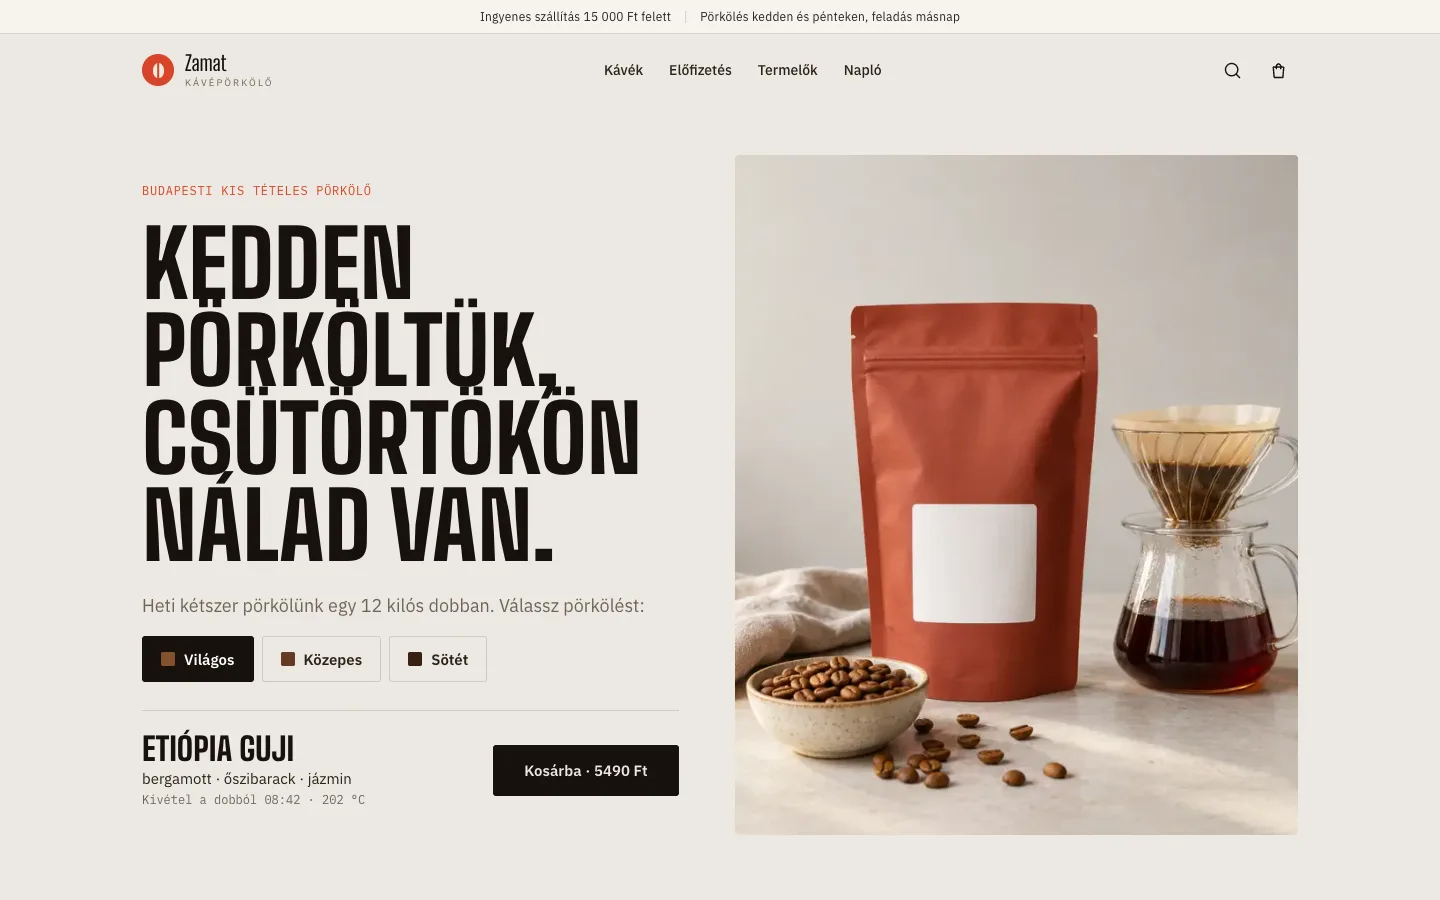
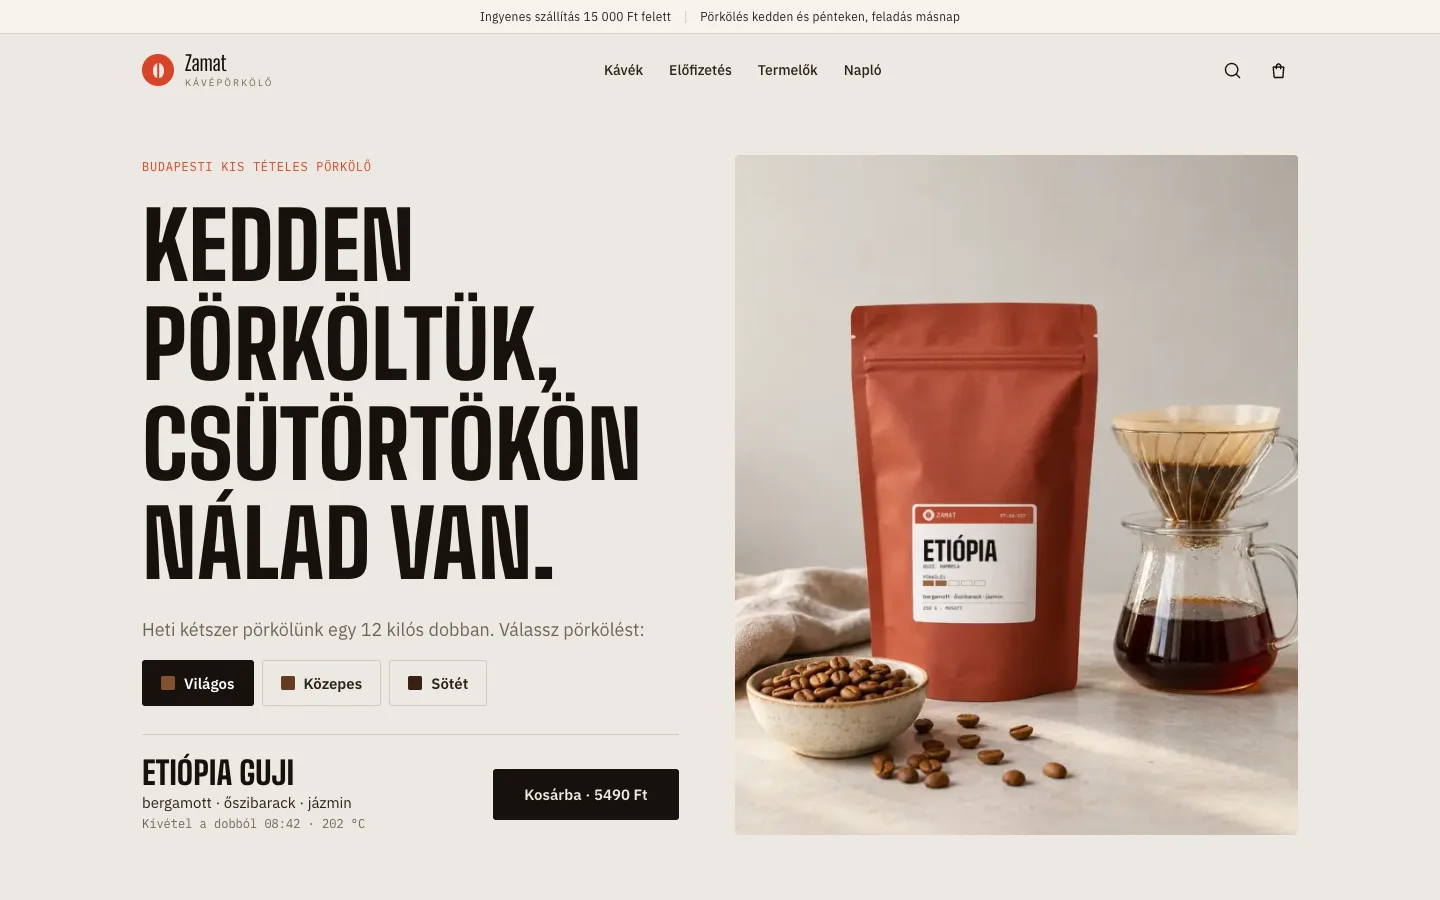
fix(demo): Zamat — logós címke a zacskókon, nem csúszó cím
A generált termékfotók üres fehér címkéjére rákerült a Zamat-címke (jel,
kávé, származás, pörkölési fok, kiszerelés), szorzó keveréssel. A nagy
cím sorköze 1,08 lett, mert az ékezetek belelógtak a fölötte lévő sorba.
A képek új néven, hogy a képoptimalizáló régi példánya ne jöjjön vissza.

Changed region(s): [[0.0938, 0.1556, 0.4375, 0.9333], [0.3438, 0.8089, 0.4688, 0.9333], [0.625, 0.56, 0.7188, 0.6844]]

diff --git a/app/demo/zamat/ZamatHero.tsx b/app/demo/zamat/ZamatHero.tsx
@@ -19,9 +19,9 @@ import { beanColor, beanTemp, formatMinute, formatTemp, toHex } from "./roast";
  */
 
 const PICKS = [
-  { label: "Világos", slug: "etiopia-guji", photo: "/demo/zamat/hero-vilagos.webp", alt: "Terrakotta kávészacskó, világos pörkölésű szemek és filteres kávéfőző" },
-  { label: "Közepes", slug: "kolumbia-huila", photo: "/demo/zamat/hero-kozepes.webp", alt: "Okkersárga kávészacskó, közepes pörkölésű szemek fakanálban, kézi daráló" },
-  { label: "Sötét", slug: "brazil-cerrado", photo: "/demo/zamat/hero-sotet.webp", alt: "Sötétbarna kávészacskó, sötét pörkölésű szemek és egy csésze espresso" }
+  { label: "Világos", slug: "etiopia-guji", photo: "/demo/zamat/zacsko-vilagos.webp", alt: "Terrakotta kávészacskó, világos pörkölésű szemek és filteres kávéfőző" },
+  { label: "Közepes", slug: "kolumbia-huila", photo: "/demo/zamat/zacsko-kozepes.webp", alt: "Okkersárga kávészacskó, közepes pörkölésű szemek fakanálban, kézi daráló" },
+  { label: "Sötét", slug: "brazil-cerrado", photo: "/demo/zamat/zacsko-sotet.webp", alt: "Sötétbarna kávészacskó, sötét pörkölésű szemek és egy csésze espresso" }
 ];
 
 export function ZamatHero() {

diff --git a/app/demo/zamat/zamat.css b/app/demo/zamat/zamat.css
@@ -1844,6 +1844,8 @@
 
 .zm-hero-head h1 {
   font-size: clamp(52px, 6.4vw, 104px);
+  /* A magyar ékezetek (Ö, Ü, Ő) a 0,95-ös sorközzel belelógtak a fölötte lévő sorba. */
+  line-height: 1.08;
   text-transform: uppercase;
 }
 
